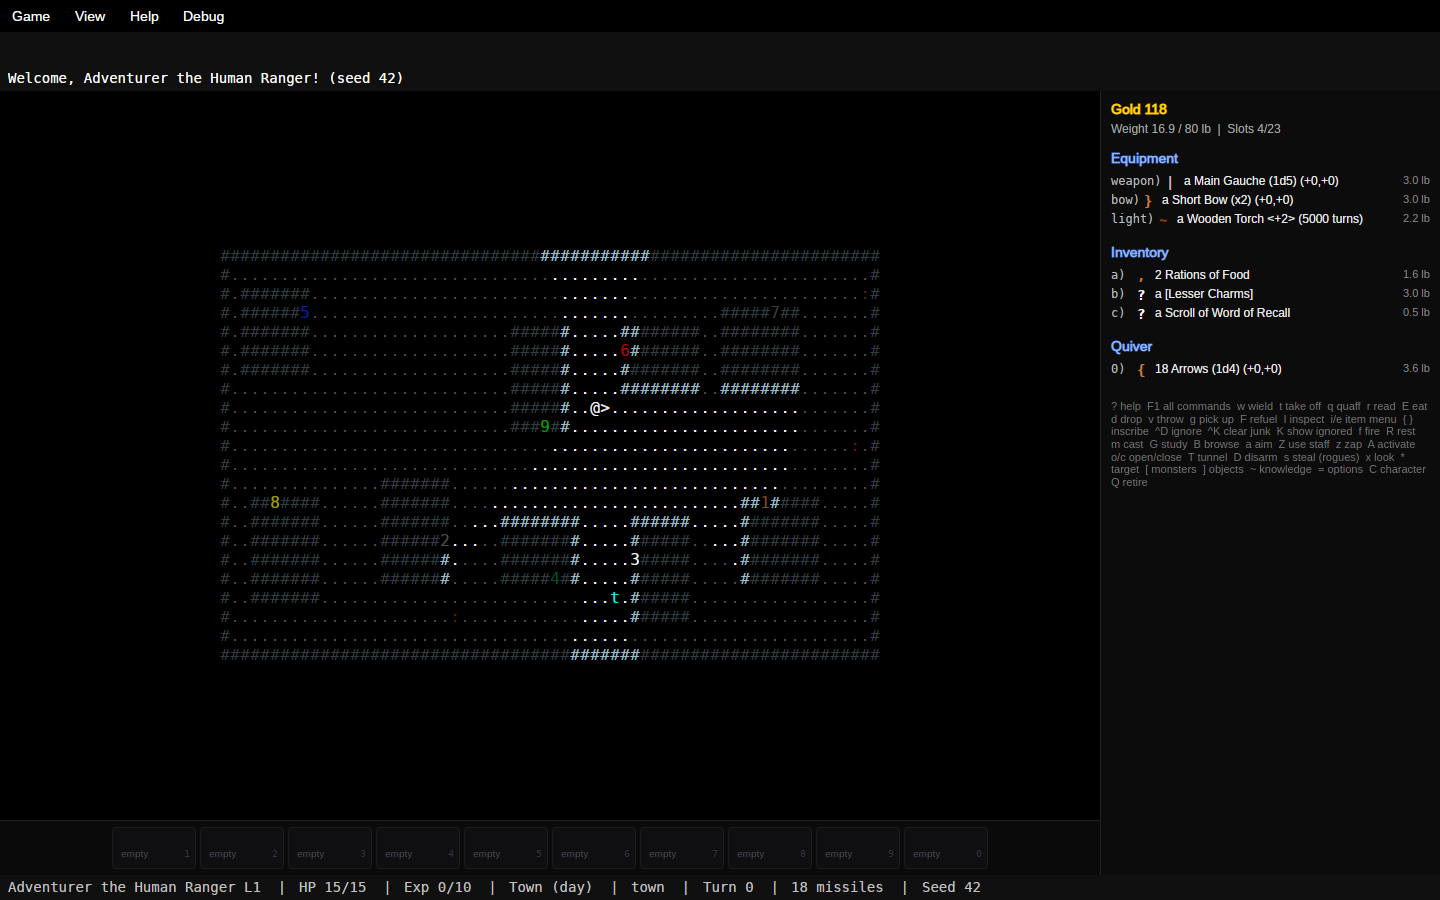
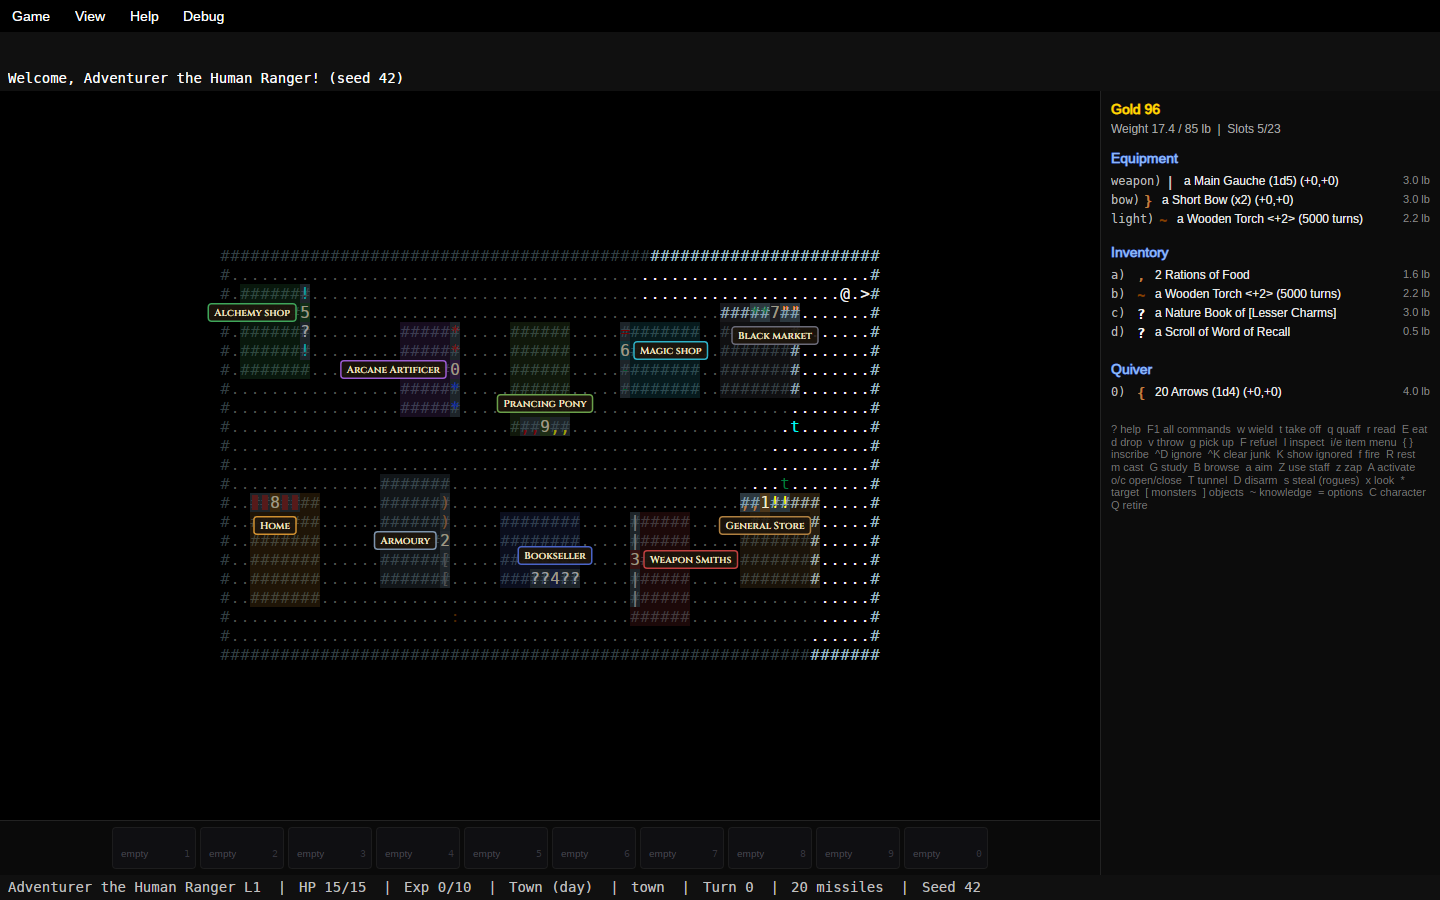
README screenshots: the town with its shopfronts
town-ascii and item-menu (taken in town) re-rendered with the shops'
colours, windows and names; a new town-night-tiles shot (lit windows,
lanterns, awnings) fills the gallery's empty cell beside the journey.

diff --git a/tests/Angband.Avalonia.Tests/ReadmeScreenshots.cs b/tests/Angband.Avalonia.Tests/ReadmeScreenshots.cs
@@ -121,6 +121,16 @@ public class ReadmeScreenshots
         Shoot(window, "cast-a-spell");
     }
 
+    /// <summary>The town in tiles, by night: the shopfronts' colours, wares, awnings, lit windows and lanterns.</summary>
+    [AvaloniaFact]
+    public void TownAtNight()
+    {
+        var (window, vm) = Open("ranger", tiles: true);
+        vm.Game.Scheduler.SetGameTurn(vm.Game.Data.Constants.DayLength * 3 / 4);
+        vm.Execute(new HoldCommand()); // (a turn, so the status line says it's night)
+        Shoot(window, "town-night-tiles");
+    }
+
     [AvaloniaFact]
     public void Town()
     {

diff --git a/README.md b/README.md
@@ -22,8 +22,8 @@ A cross-platform Angband clone in C# / .NET 10 (LTS) and Avalonia 12.
 | Settings | Taking the stairs down |
 | ![Going up: a stair climbing toward grey light](screenshots/stairs-up.png) | ![Up into the town: a stair climbing toward the evening sky](screenshots/stairs-up-town.png) |
 | Taking the stairs up | ...and up into the town |
-| ![Your journey: depth over time, each depth, and the history](screenshots/journey.png) | |
-| Your journey | |
+| ![Your journey: depth over time, each depth, and the history](screenshots/journey.png) | ![The town at night in tiles: each shop in its colour, its wares in lit windows, awnings, lanterns and its name](screenshots/town-night-tiles.png) |
+| Your journey | The town at night: the shopfronts |
 
 The screenshots are rendered by the real windows without a display, from fixed seeds:
 `tools/screenshots.sh` regenerates them all (`tests/Angband.Avalonia.Tests/ReadmeScreenshots.cs`
